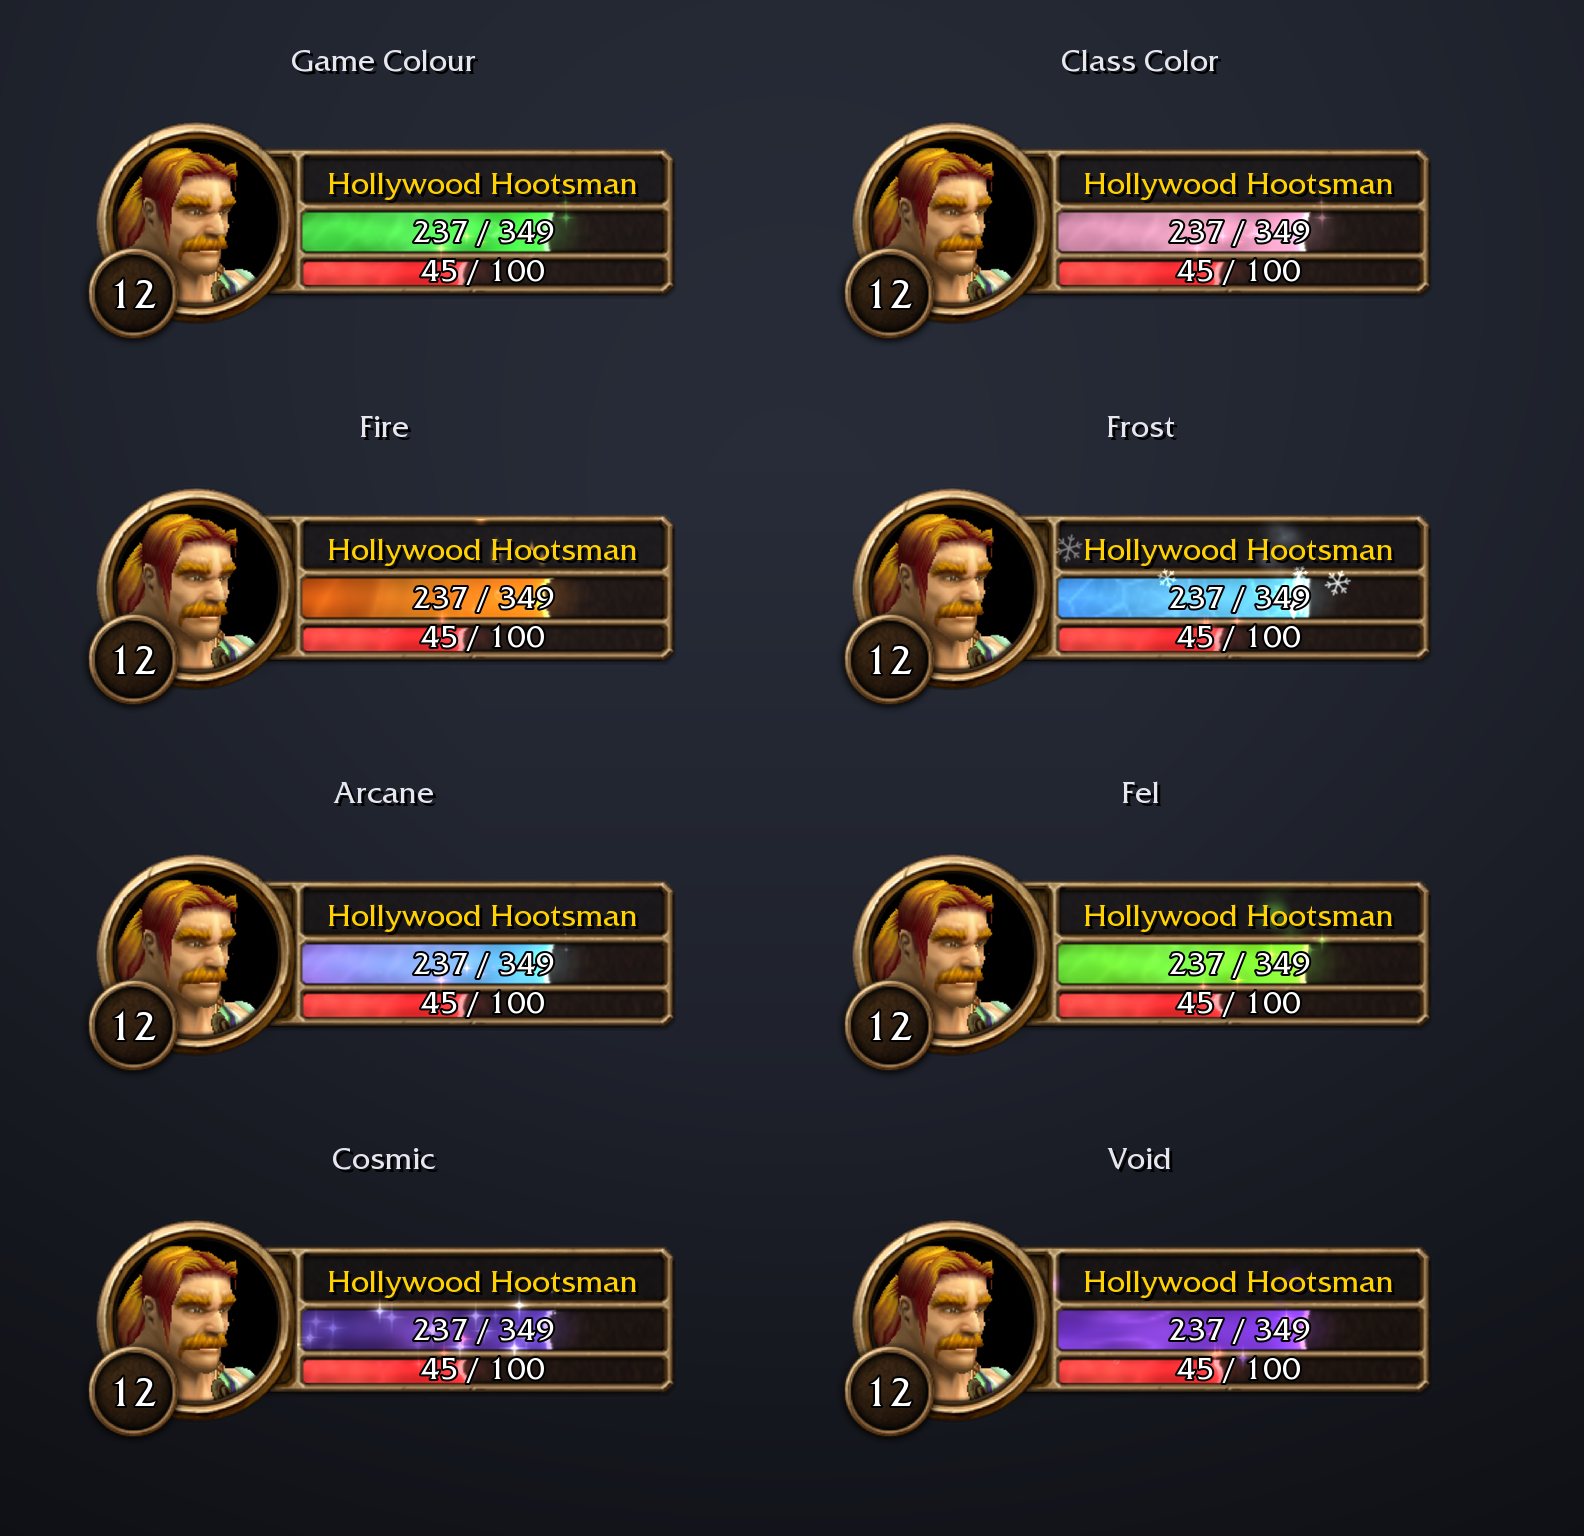
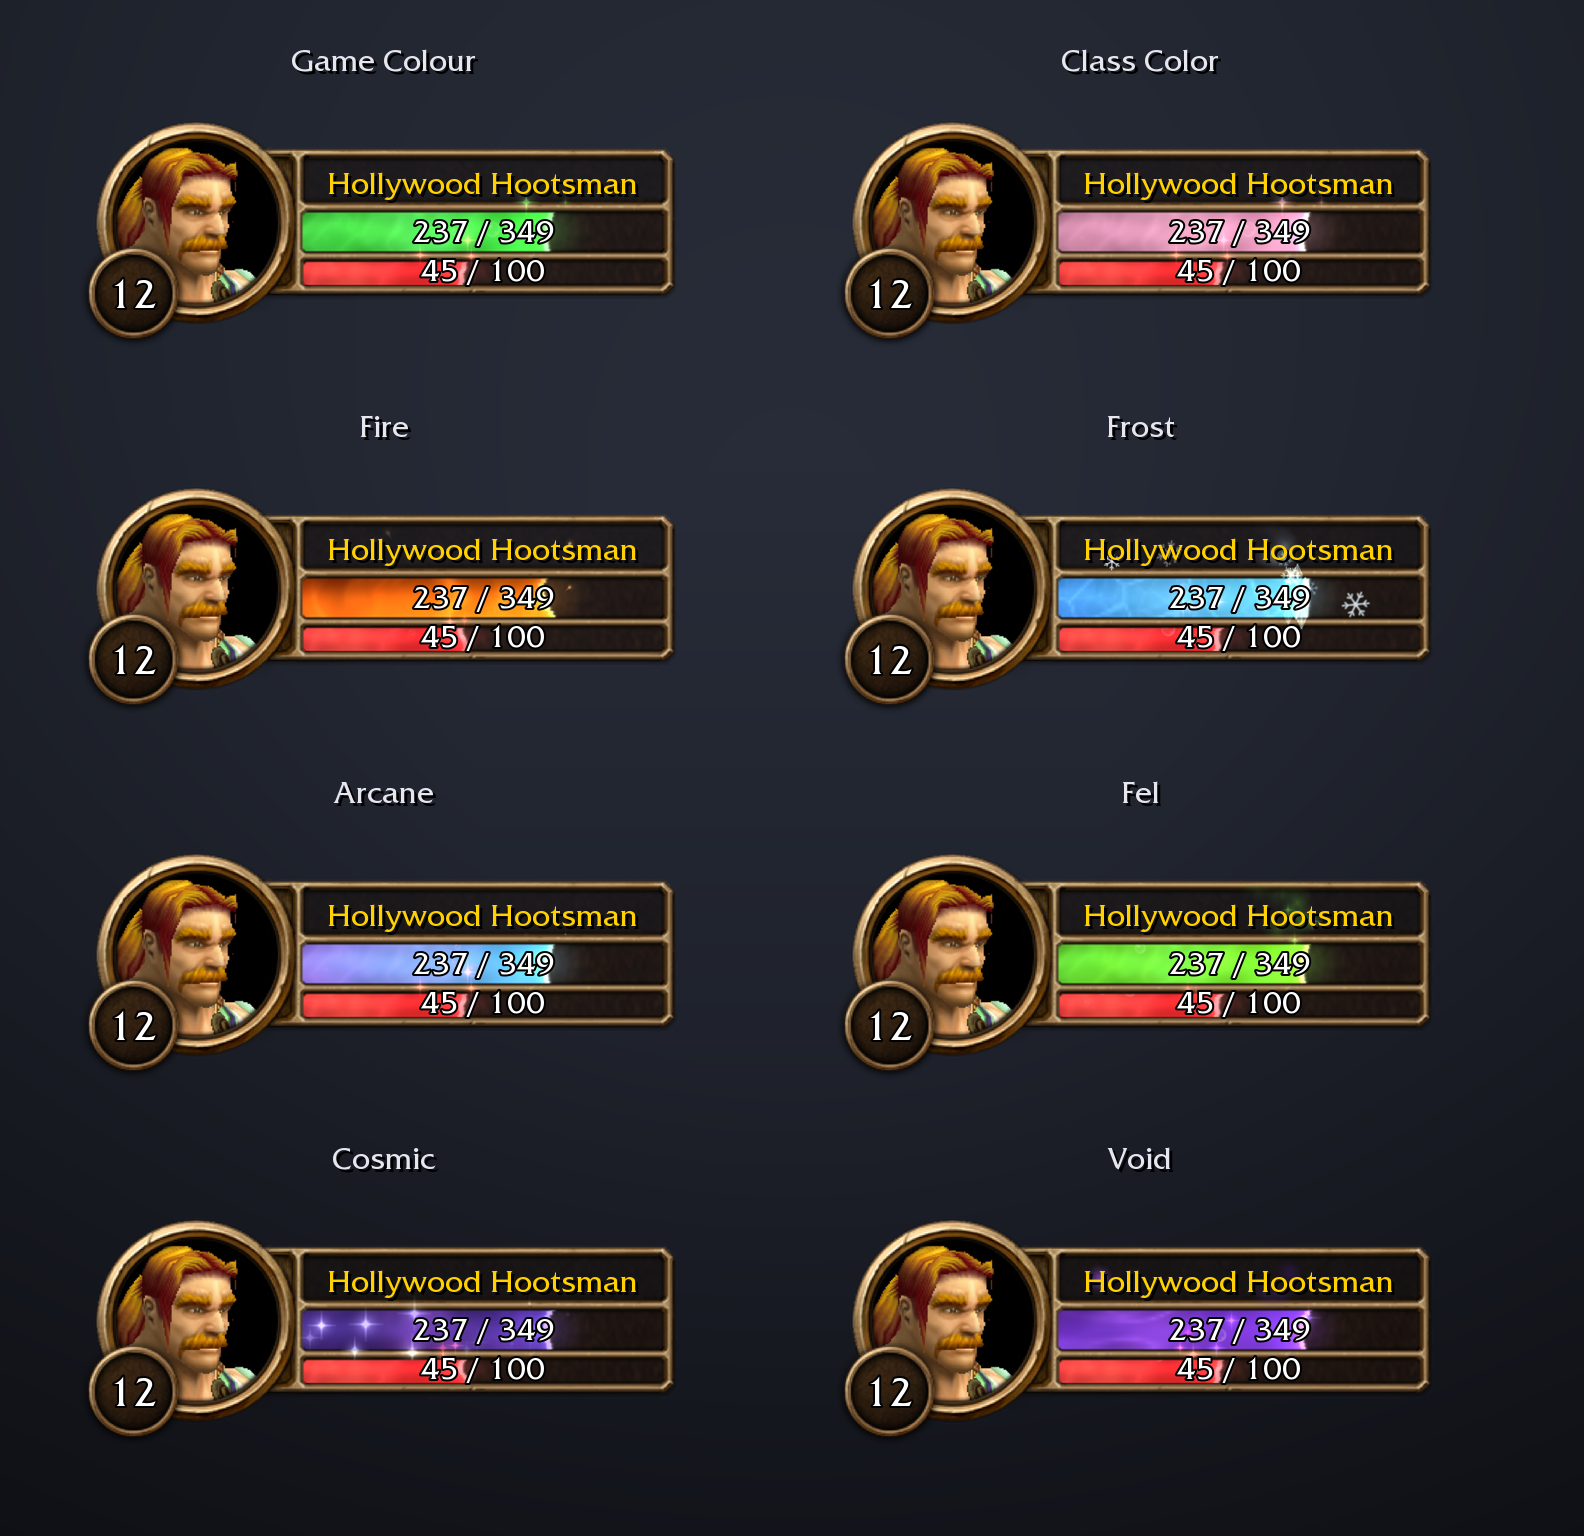
Make the Fire theme burn like fire rather than lava
Flame tongues rise through the bar from a hot base into a smoky top, the
whole liquid flickers, and sparks with trailing tails fly off it, swaying
as they rise and cooling from white-gold to red. Fire no longer throws
bubbles.

Liquid.lua gains optional theme fields for this, all off by default:
swirl.rise, flicker, shade (a dark top and a hot base), bubbles.splash,
and wander and orient for particles. make_media.py adds the Flames, Ramp
and Spark textures. The themes and warlock gallery images are rebuilt.

diff --git a/tools/make_media.py b/tools/make_media.py
@@ -164,6 +164,31 @@ def make_heat(path, w=256, h=64):
     write_field(path, w, h, field)
 
 
+def make_flames(path, w=256, h=64):
+    """Licking flame tongues, taller than wide with dark gaps between, that waver as they rise. Tiles both ways
+    so a theme can scroll it upward (swirl.rise)."""
+    tongues = [(TileNoise(32 * 2**i, 4 * 2**i, 190 + i), 0.5**i) for i in range(3)]
+    warp = [(TileNoise(8, 4, 195), 1.0), (TileNoise(16, 8, 196), 0.5)]
+
+    def field(u, v):
+        wu = u + (fbm(warp, u, v) - 0.5) * 0.07
+        n = fbm(tongues, wu % 1.0, v)
+        return max(0.0, n - 0.4) ** 1.4
+
+    write_field(path, w, h, field)
+
+
+def make_ramp(path, w=4, h=64):
+    """Vertical ramp: opaque at the top, fading out two thirds of the way down. Liquid.lua's shade layers map it
+    once over the bar's height (flipped for the hot base)."""
+
+    def pixel(x, y):
+        v = (y + 0.5) / h
+        return 1, 1, 1, max(0.0, 1 - v / 0.7) ** 1.6
+
+    write_tga(path, w, h, pixel)
+
+
 def make_cracks(path, w=256, h=64):
     """Glowing cell edges, like cooling lava."""
     cells = TileWorley(16, 4, 90)
@@ -369,6 +394,24 @@ def make_ember(path, size=32):
     write_tga(path, size, size, radial(size, fn))
 
 
+def make_spark(path, size=32):
+    """A spark in flight: a small white-hot head near the top and a thin tail fading below it. Kept inside the
+    middle circle so it can turn any way (burst.orient) without its corners clipping."""
+    head_y, tail = -0.4, 0.95  # head position, tail length (texture halves, y down)
+
+    def fn(dx, dy, d):
+        head = math.exp(-(math.hypot(dx, dy - head_y) / 0.12) ** 2)
+        along = (dy - head_y) / tail
+        streak = 0.0
+        if 0 <= along <= 1:
+            width = 0.075 * (1 - 0.7 * along)
+            streak = 0.85 * math.exp(-(dx / width) ** 2) * (1 - along) ** 1.6
+        halo = 0.22 * math.exp(-(math.hypot(dx, dy - head_y + 0.05) / 0.3) ** 2)
+        return 1, 1, 1, min(1.0, head + streak + halo)
+
+    write_tga(path, size, size, radial(size, fn))
+
+
 def make_snow(path, size=32):
     """Six-armed snowflake with side branches."""
 
@@ -464,6 +507,8 @@ def main():
     os.makedirs(out, exist_ok=True)
     make_swirl(os.path.join(out, "Swirl.tga"))
     make_heat(os.path.join(out, "Heat.tga"))
+    make_flames(os.path.join(out, "Flames.tga"))
+    make_ramp(os.path.join(out, "Ramp.tga"))
     make_cracks(os.path.join(out, "Cracks.tga"))
     make_caustics(os.path.join(out, "Caustics.tga"))
     make_nebula(os.path.join(out, "Nebula.tga"))
@@ -477,6 +522,7 @@ def main():
     make_bolt(os.path.join(out, "Bolt.tga"))
     make_wisp(os.path.join(out, "Wisp.tga"))
     make_ember(os.path.join(out, "Ember.tga"))
+    make_spark(os.path.join(out, "Spark.tga"))
     make_snow(os.path.join(out, "Snow.tga"))
     make_leaf(os.path.join(out, "Leaf.tga"))
     make_star(os.path.join(out, "Star.tga"))

diff --git a/CHANGELOG.md b/CHANGELOG.md
@@ -4,6 +4,14 @@ Player-facing notes for each release. Write for players: what they can now
 do or see, and what was broken and now works. Leave out internal changes.
 Sections are `### New` and `### Fixed`; skip one that would be empty.
 
+## 1.4.0
+
+### New
+- Fire looks like fire now rather than lava: flame tongues lick up through
+  the bar from a hot base into a smoky top, the whole fire flickers, and
+  real sparks fly off it, swaying as they rise and cooling from white-gold to
+  red. Fire DoTs on your target (Immolate and the like) burn the same way.
+
 ## 1.3.0
 
 ### New
